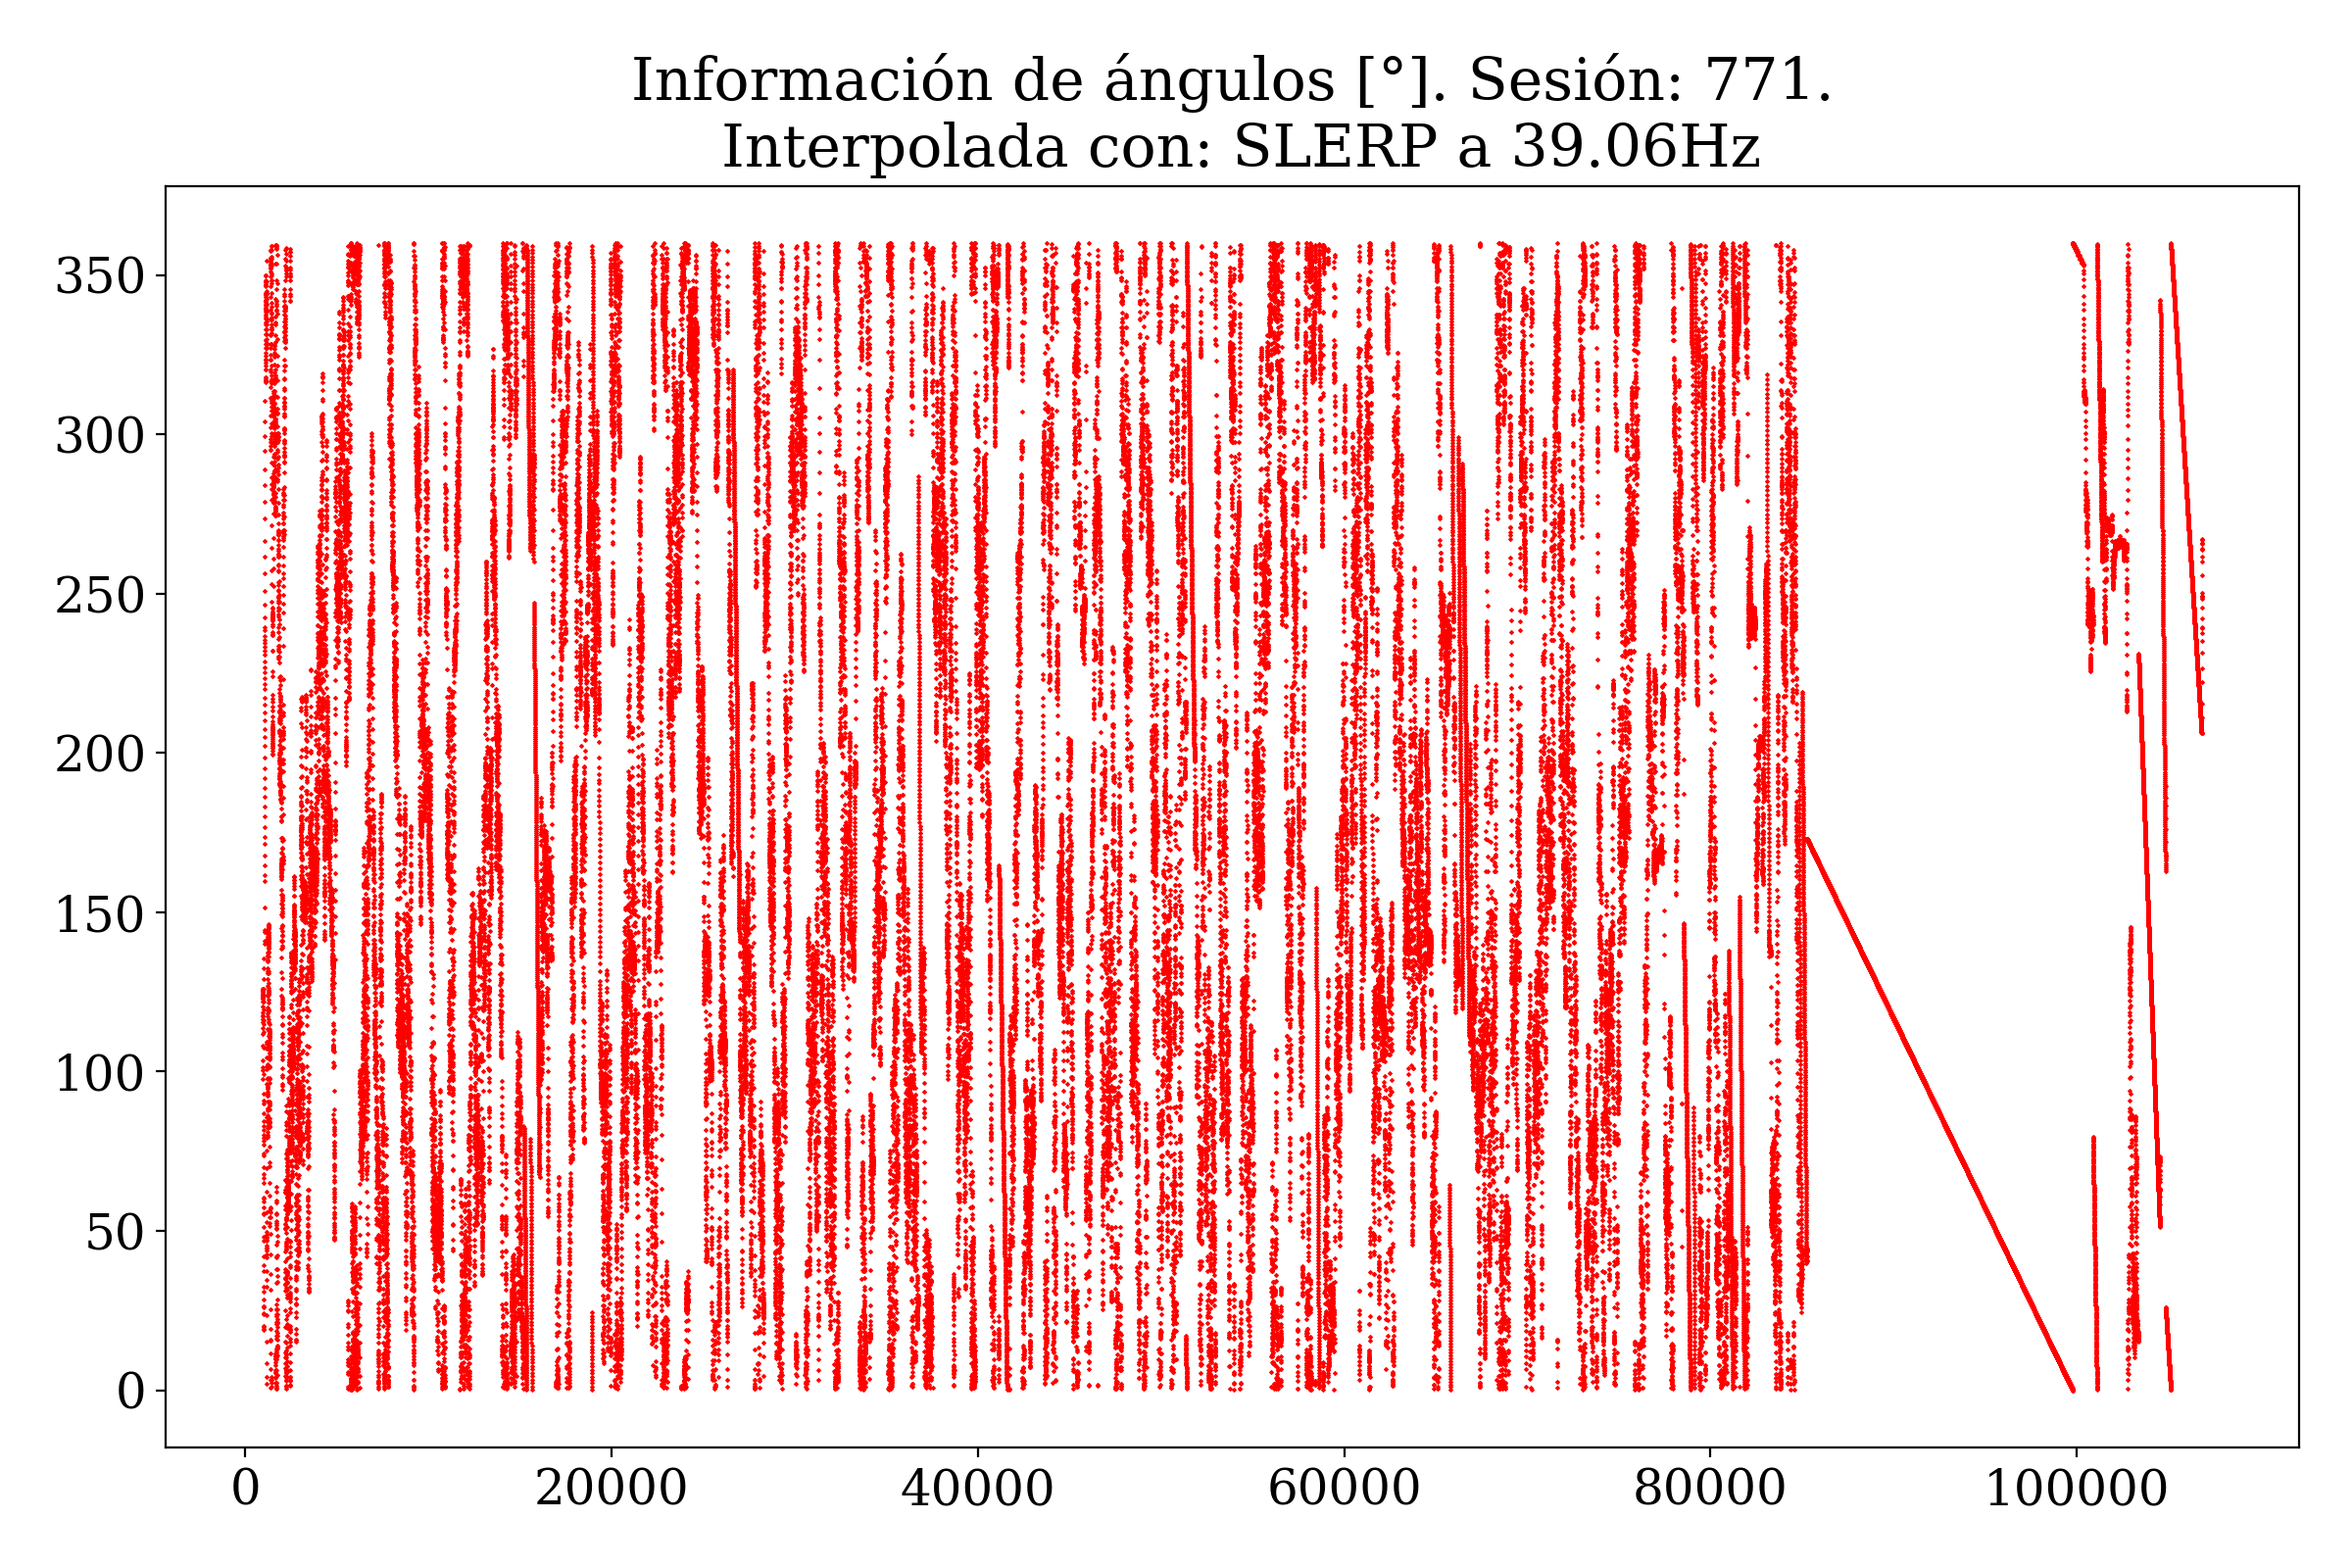
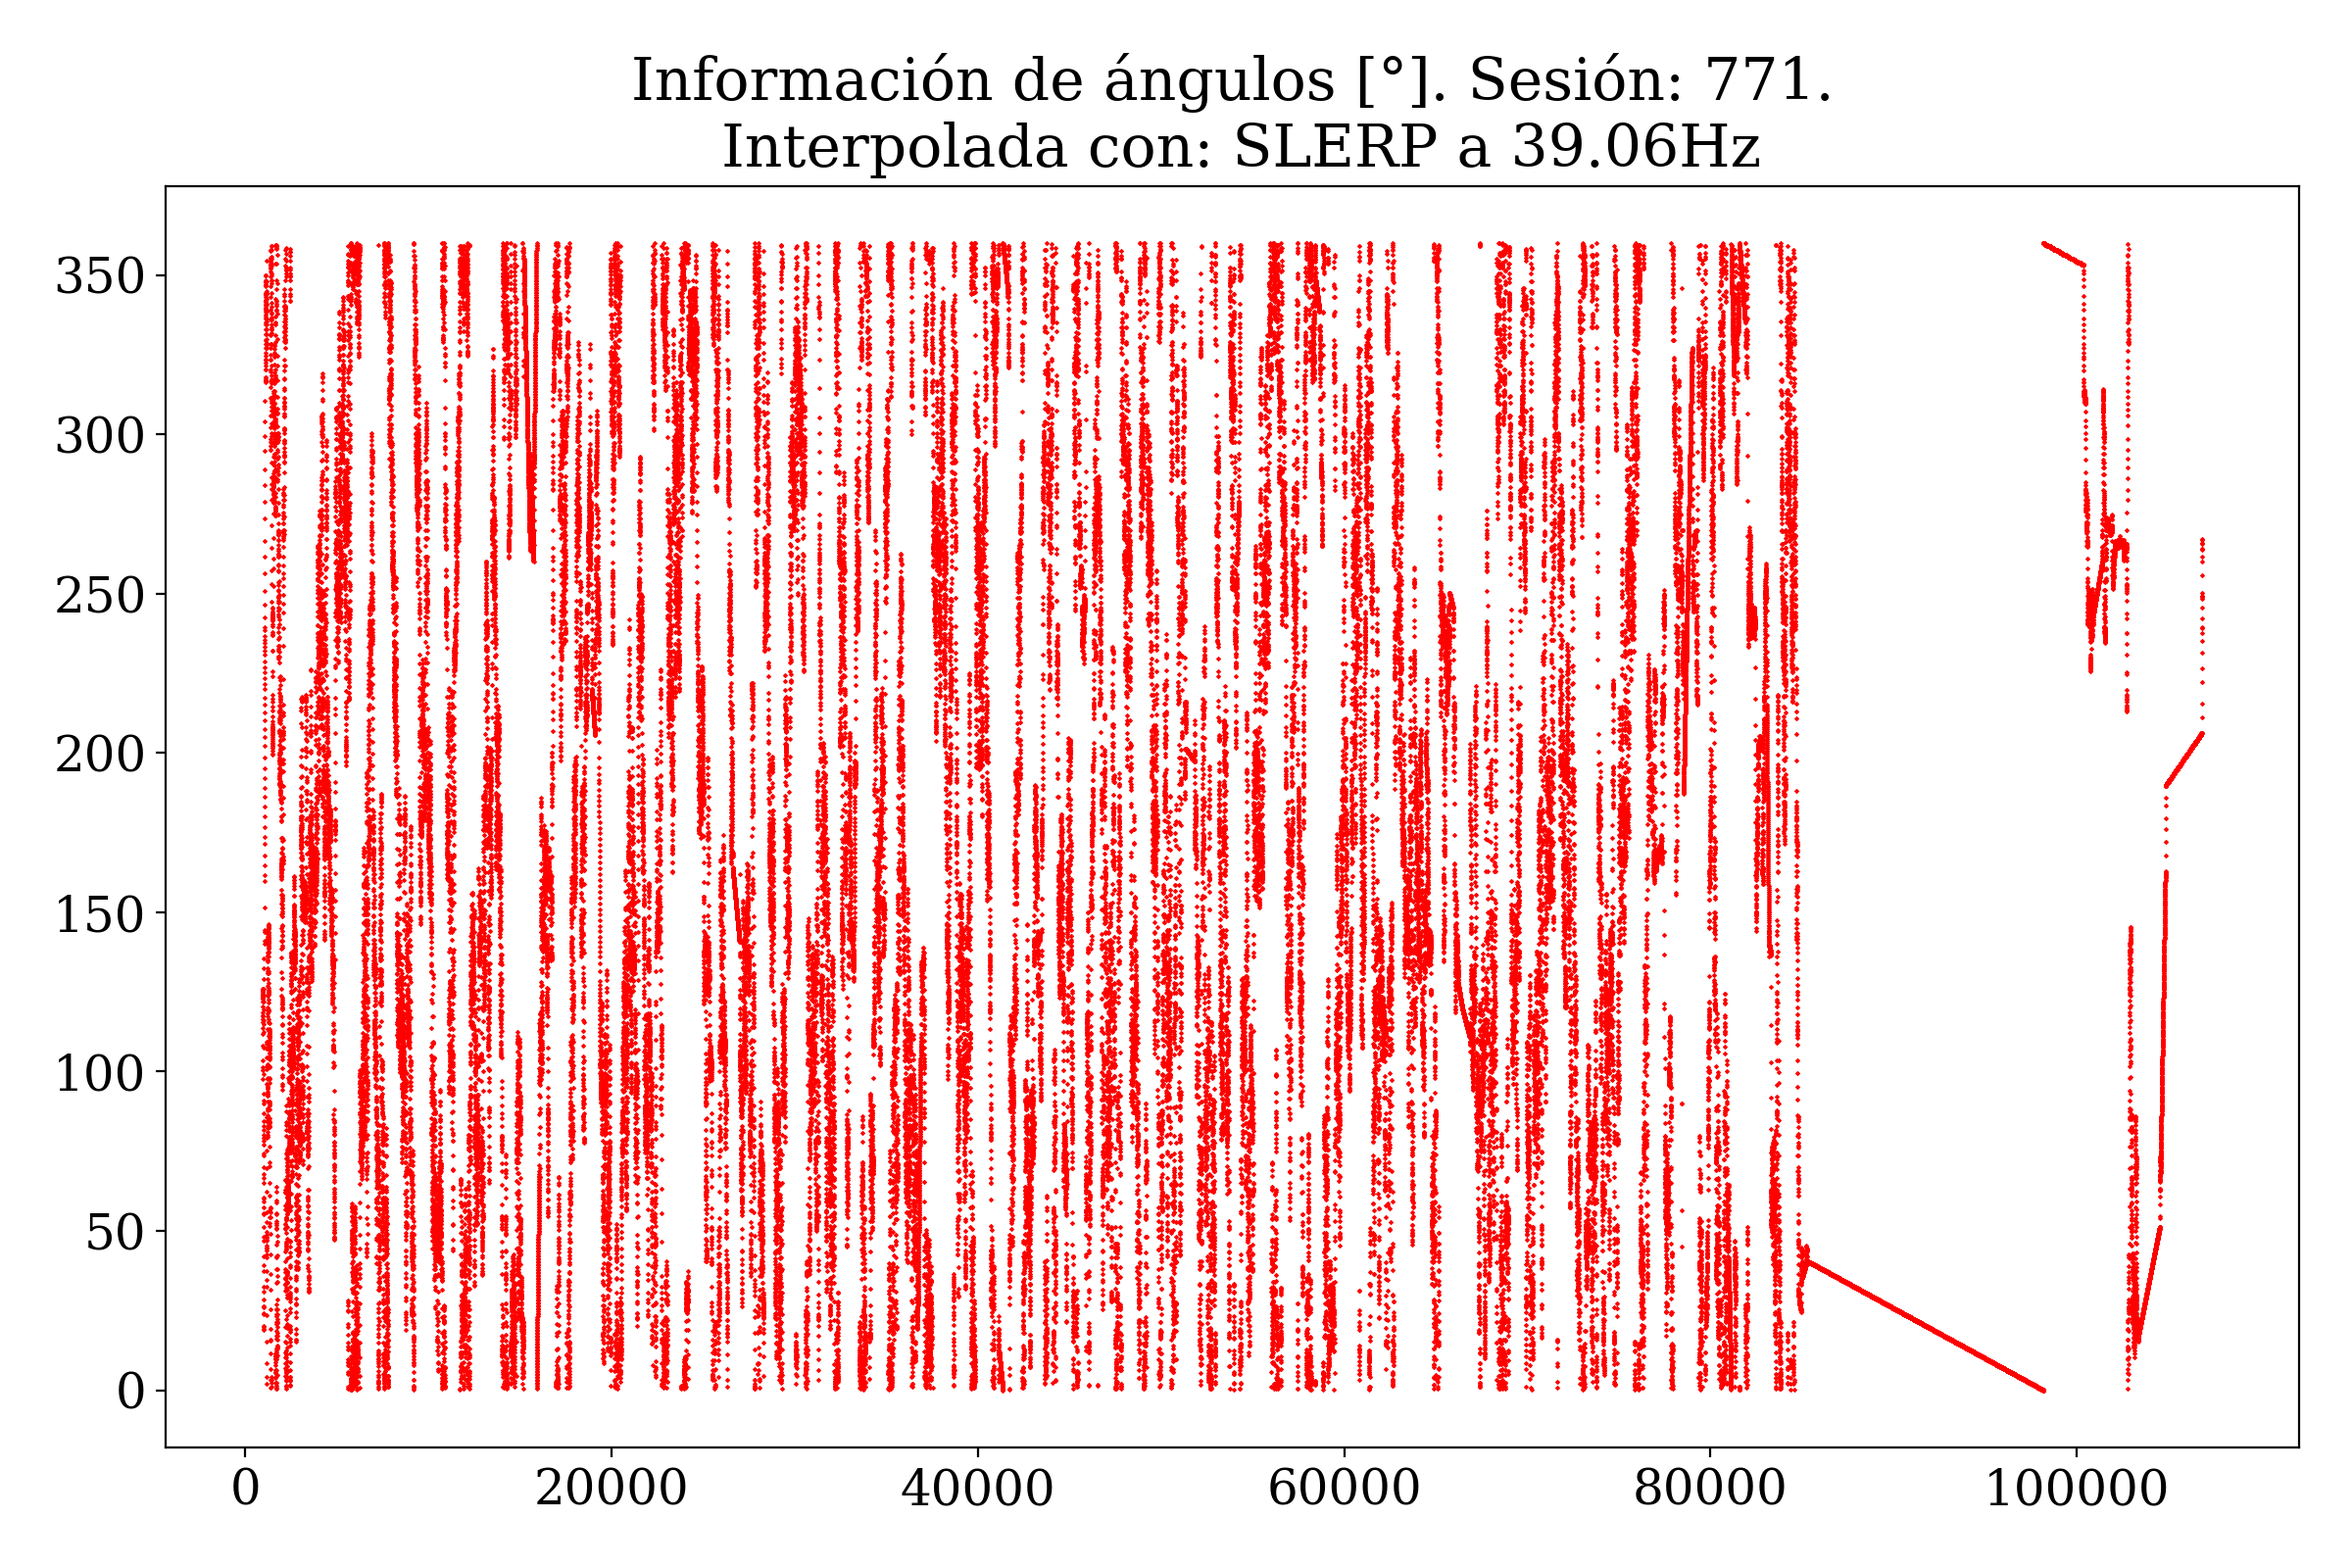
Fix bug in vectorized_slerp and re-capture images

diff --git a/Yomchi/preprocessing.py b/Yomchi/preprocessing.py
@@ -146,7 +146,7 @@ def vectorized_slerp(angles_data):
                 end_angle = interpolated_angles[i]
                 for j in range(first_nan_index, first_nan_index + no_nans):
                     amount += 1/(no_nans + 1)
-                    interpolated_angles[j] = (start_angle + ((end_angle-start_angle) + 180) % 360 - 180 * amount) % 360
+                    interpolated_angles[j] = (start_angle + (((end_angle-start_angle) + 180) % 360 - 180) * amount) % 360
                 start_angle = np.nan
 
     return interpolated_angles

diff --git a/DataExploration/DataExploration.py b/DataExploration/DataExploration.py
@@ -41,7 +41,7 @@ session = {"Number": "771", "LFP Data": data.LFP_771, "Angles Data": data.ANGLES
 #session = {"Number": "765", "LFP Data": data.LFP_765, "Angles Data": data.ANGLES_765}
 
 interpolation = "SLERP"  # "linear" "quadratic" "cubic" "nearest" "SLERP"
-sync_method = "Downsample LFPs"  # "Pad Angles" "Downsample LFPs"
+sync_method = "Pad Angles"  # "Pad Angles" "Downsample LFPs"
 
 # Data Properties
 num_channels = data.EC014_41_NUMBER_OF_CHANNELS
